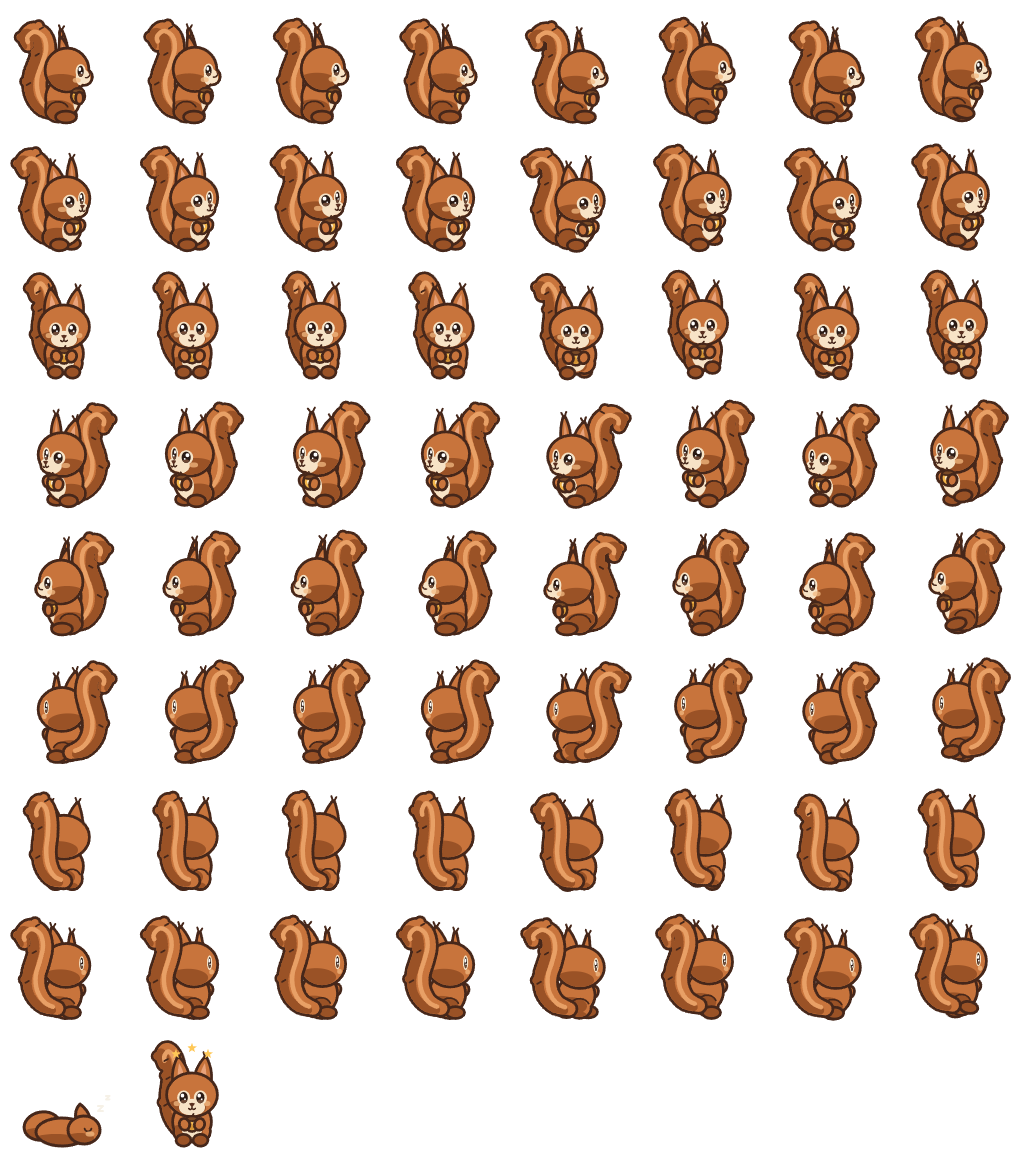
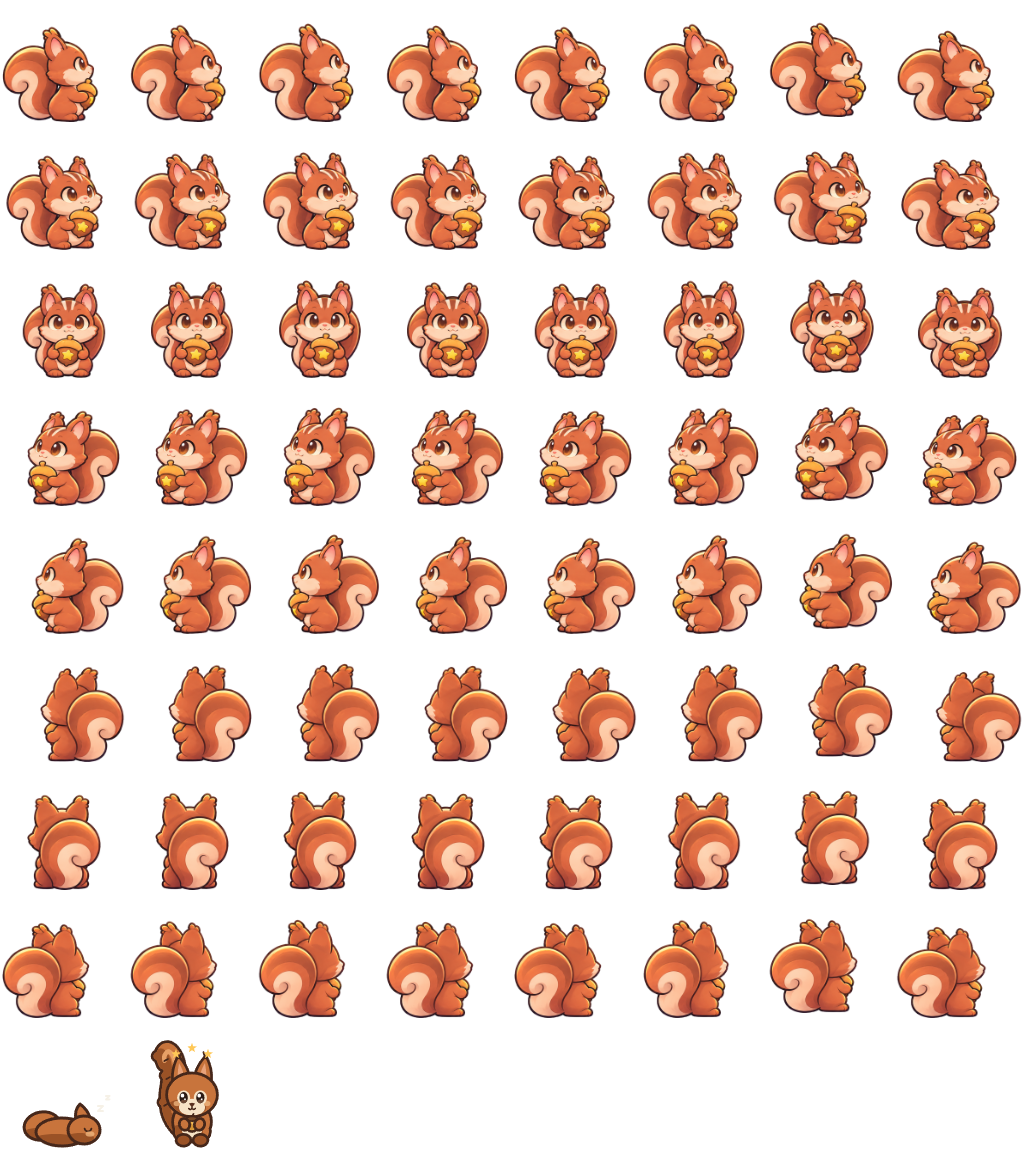
도토 대기 8방향 팩 적용: ChatGPT 팩(512·한 축척·발끝 496)을 reference/Doto_8_Direction_Pack에, 꼬리 포함 실루엣 가운데로 와서 방향별 몸 기준점(anchorX), 키 95px, 초상 = 대기 45°, 걷기는 임시 깡충(착지 칸 넓힘 2%로 — 꼬리 잘림 방지)
Claude-Session: https://claude.ai/code/session_01HrPbr5mJU6i3pPUacduwos

diff --git a/src/art/friendSheet.ts b/src/art/friendSheet.ts
@@ -31,6 +31,11 @@ interface FriendPack {
    * 게임은 여기에 걸음 빠르기 배율(Lightkeeper: 끝까지 밀면 약 ×1.65)을 곱한다
    */
   walkCycle?: { order: number[]; frameRate: number };
+  /**
+   * 방향(각도)별 몸 기준점 x(팩 캔버스 px). 없으면 발 가운데(아래 15% 줄 평균)를 잰다.
+   * 꼬리가 크고 바닥에 닿는 도토처럼, 자동으로 재면 꼬리에 끌려가는 팩에 쓴다
+   */
+  anchorX?: Partial<Record<number, number>>;
 }
 
 /** 각도 → 팩의 방향 이름 (파일 이름 규칙) */
@@ -46,6 +51,7 @@ const NAMES: Record<number, string> = {
 };
 
 const TORI_DIR = '/reference/Tori_8_Direction_Pack';
+const DOTO_DIR = '/reference/Doto_8_Direction_Pack';
 export const FRIEND_PACKS: Partial<Record<KeeperSpriteId, FriendPack>> = {
   tori: {
     idle: (deg, name) => `${TORI_DIR}/Tori_Idle_8D_Pack/tori_idle_${deg}_${name}.png`,
@@ -56,6 +62,21 @@ export const FRIEND_PACKS: Partial<Record<KeeperSpriteId, FriendPack>> = {
     // 2026-11-18 라이언: 오른쪽 깡충이 빠르고 과해 보임 → 앉음 2칸·박차기 1·공중 1·착지 2칸, 끝까지 밀어도 한 번에 약 0.66초(제안).
     // 루미 방식(4칸 9fps)이면 끝까지 밀 때 1초에 약 15칸 = 깡충 한 번 0.27초였다. 땅에 있는 시간을 늘리고 공중은 짧게
     walkCycle: { order: [0, 0, 1, 2, 3, 3], frameRate: 5.5 },
+  },
+  // 2026-11-18: ChatGPT 도토 대기 팩(8장 한 축척, 발끝 496, 귀 끝 털 약 54줄 = 몸 높이 약 442).
+  // 팩은 '꼬리까지 포함한 실루엣'을 가로 가운데에 맞춰 와서(README), 몸 기준점을 방향마다 정했다(그림 위에 선을 그어 확인,
+  // 좌우 짝 45/315·90/270·135/225는 512 대칭). 그림 파일은 받은 그대로 — 옮기면 큰 꼬리가 캔버스 밖으로 잘린다.
+  // 크기 95px(제안): 브리프 '몸은 셋 중 가장 작다'(루미 약 101px, 머리 폭 루미의 약 83%). 더 크면 128 칸에서 꼬리 끝이 잘린다.
+  // 걷기 팩이 오기 전까지 걷기는 대기 그림으로 만든 임시 깡충, 박자는 토리와 같다
+  doto: {
+    idle: (deg, name) => `${DOTO_DIR}/Doto_Idle_8D_Pack/doto_idle_${deg}_${name}.png`,
+    walk: (deg, name, n) => `${DOTO_DIR}/Doto_Walk_8D_4Frames_Pack/${deg}_${name}/doto_walk_${deg}_${name}_f0${n}.png`,
+    feetY: 496,
+    bodyH: 442,
+    heightPx: 95,
+    walkCycle: { order: [0, 0, 1, 2, 3, 3], frameRate: 5.5 },
+    // 90·135(270·225)는 몸 아래보다 10px 몸 쪽: 꼬리 끝이 128 칸 밖으로 나가지 않게(게임에서 2px)
+    anchorX: { 0: 256, 45: 300, 90: 320, 135: 340, 180: 256, 225: 172, 270: 192, 315: 212 },
   },
 };
 
@@ -69,7 +90,7 @@ interface Pose {
 /** 숨쉬기 4칸 (루미 breathe와 같은 값) */
 const BREATHE: Pose[] = [{}, { sx: 0.995, sy: 1.02 }, { sx: 0.99, sy: 1.035 }, { sx: 0.995, sy: 1.015 }];
 /** 걷기 팩이 아직 없는 방향의 임시 깡충 (제안): 모음 → 박차기 → 공중 → 착지. 귀 끝이 칸(위 7px 여유) 밖으로 나가지 않는 만큼만 늘이고 든다 */
-const HOP: Pose[] = [{}, { sx: 0.98, sy: 1.03 }, { sx: 1.01, sy: 0.99, lift: 5 }, { sx: 1.04, sy: 0.95 }];
+const HOP: Pose[] = [{}, { sx: 0.98, sy: 1.03 }, { sx: 1.01, sy: 0.99, lift: 5 }, { sx: 1.02, sy: 0.96 }];
 
 function loadImage(url: string): Promise<HTMLImageElement | null> {
   return new Promise((resolve) => {
@@ -132,6 +153,7 @@ export async function composeFriend(id: KeeperSpriteId): Promise<HTMLCanvasEleme
   if (!pack) return null;
   const s = pack.heightPx / pack.bodyH;
   const idle = new Map<Dir, HTMLImageElement>();
+  const anchor = new Map<Dir, number>();
   const walk = new Map<Dir, HTMLImageElement[]>();
   for (const [deg, name] of Object.entries(NAMES)) {
     const a = deg.padStart(3, '0');
@@ -139,6 +161,7 @@ export async function composeFriend(id: KeeperSpriteId): Promise<HTMLCanvasEleme
     const img = await loadImage(pack.idle(a, name));
     if (!img) return null;
     idle.set(dir, img);
+    anchor.set(dir, pack.anchorX?.[Number(deg)] ?? feetX(img));
     const frames = await Promise.all([1, 2, 3, 4].map((n) => loadImage(pack.walk(a, name, n))));
     if (frames.every((f): f is HTMLImageElement => f !== null)) walk.set(dir, frames as HTMLImageElement[]);
   }
@@ -155,8 +178,8 @@ export async function composeFriend(id: KeeperSpriteId): Promise<HTMLCanvasEleme
 
   for (const [row, d] of DIRS.entries()) {
     const img = idle.get(d) as HTMLImageElement;
-    // 한 방향 안의 대기·걷기는 같은 발 가운데(대기 그림 기준)에 둔다 → 걷기 프레임의 앞뒤 움직임이 그대로 보인다
-    const fx = feetX(img);
+    // 한 방향 안의 대기·걷기는 같은 기준점(대기 그림의 발 가운데 또는 anchorX)에 둔다 → 걷기 프레임의 앞뒤 움직임이 그대로 보인다
+    const fx = anchor.get(d) as number;
     for (let i = 0; i < LUMI_COLS.idle; i++) place(g, img, i, row, fx, pack, s, BREATHE[i % BREATHE.length]);
     const frames = walk.get(d);
     for (let i = 0; i < LUMI_COLS.walk; i++) {

diff --git a/CLAUDE.md b/CLAUDE.md
@@ -155,7 +155,7 @@ UI는 한국어, 코드 식별자는 영어 id.
     - **외형 변경 금지**: Claude는 캐릭터 외형을 임의로 재해석하거나 정해진 그림을 바꾸지 않는다. 바꿀 때는 라이언의 승인을 받는다.
     - **Claude의 몫**: 필요한 규격과 주문서(`hand-offs/chatgpt-*`), 가져오기 도구를 만든다.
     - **교체**: ChatGPT 그림이 오면 같은 키로 바꾼다.
-  - 지금 임시 그림: 중앙 광원 토템 `central-source`(밝음·약함·꺼짐), 개구리 `frog-dark`·`frog-true`, 등불 스테이션 = `lantern` 시트를 바닥에(1.5배, 2026-11-13), 도토(붉은 갈색 다람쥐·복슬한 꼬리·황금 도토리)의 초상·8방향 시트, 토리·도토의 빛을 잃은 모습(`src/art/friends.ts`·`keeperSprites.ts`). **토리는 2026-11-18부터 ChatGPT 그림**: 정지 8방향·초상(대기 45°) = 대기 팩, 걷기 = 받은 방향의 걷기 팩(지금 90° 오른쪽만 — 나머지 방향은 대기 그림을 늘이고 드는 임시 깡충), 잠듦·기절 = 아직 임시 코드 그림(`src/art/friendSheet.ts`, 팩 파일이 늘면 `npm run assets`만 다시).
+  - 지금 임시 그림: 중앙 광원 토템 `central-source`(밝음·약함·꺼짐), 개구리 `frog-dark`·`frog-true`, 등불 스테이션 = `lantern` 시트를 바닥에(1.5배, 2026-11-13), 토리·도토의 빛을 잃은 모습(`src/art/friends.ts`·`keeperSprites.ts`). **도토도 2026-11-18부터 ChatGPT 그림**: 정지 8방향·초상(대기 45°) = 대기 팩(`reference/Doto_8_Direction_Pack/Doto_Idle_8D_Pack/`, 몸 기준점 표 `anchorX`·키 95px — 점검 기록 `README_claude.md`), 걷기 = 임시 깡충. **토리는 2026-11-18부터 ChatGPT 그림**: 정지 8방향·초상(대기 45°) = 대기 팩, 걷기 = 받은 방향의 걷기 팩(지금 90° 오른쪽만 — 나머지 방향은 대기 그림을 늘이고 드는 임시 깡충), 잠듦·기절 = 아직 임시 코드 그림(`src/art/friendSheet.ts`, 팩 파일이 늘면 `npm run assets`만 다시).
   - **움직임 그림 (2026-11-13 라이언: 모든 생명이 어색하지 않게, 루미 참고)**: 토리·도토 = 루미와 같은 8방향(앞·앞 3/4·옆·뒤 3/4·뒤, 왼쪽은 뒤집기) × 정지 4칸·걷기 4칸(`keeperSprites.ts`). 걷는 적·주민(늑대·고슴도치·레서판다·올빼미·개구리) = 옆·앞·뒤 × 4칸 걸음(칸 = 방향×4+걸음, 이동 방향으로 고름 `systems/critterView.ts`), 나는 종(박쥐·뱀파이어·나방·반딧불이) = 4칸 날갯짓, 노월 = 대기 4칸·시전 2칸(구슬·소환 때)·진정 1칸(`creatures.ts`·`enemies.ts`·`critterKit.ts`). 판이 끝나면 등불지기는 정면 정지, 일시정지 중엔 애니메이션도 멈춤.
   - 조준 = 밝은 노랑 50% 원뿔(선 없음, 반지름만 끈 거리에 비례), 발사 = 별이 원뿔 안으로.
 - 콘셉트 "어두운 밤, 따뜻한 빛". 알약형 버튼(주요 호박 채움 + 아이콘 / 보조는 어두운 바탕에 밝은 테두리, 최소 48×48), 폰트 Pretendard → Noto Sans KR.
@@ -337,6 +337,7 @@ UI는 한국어, 코드 식별자는 영어 id.
   - 첫 적용 — 받은 토리 대기 8장 점검(`sketches/tori-idle-check-26-1117-2306/`): 크기·발끝·가운데·투명은 맞음. `tori_idle_135_back_right.png` 한 장만 리본·접힌 귀가 반대쪽 귀(225°를 뒤집은 모습).
   - 원인은 브리프 — '왼쪽 3방향은 뒤집기' 규칙과 기준이 섞인 좌우 표현. 브리프·기준 사실서를 고침: 접힌 귀와 리본 = 토리 자신의 왼쪽 귀, 토리는 뒤집지 않음, 걷기 팩은 대기 팩과 같은 캔버스·축척·발끝. 135° 고치기 영문 프롬프트를 더함.
   - 크기: 토리가 캔버스 안에서 루미보다 작게 그려짐(같은 칸이면 머리 폭 82%) → 다시 그리지 않고 게임에서 토리를 ×1.22로 보이게(제안, 친구 가져오기 도구를 만들 때 적용).
+- 2026-11-18 · 받은 도토 대기 8방향 팩(`Doto_Idle_8D_Pack.zip`)을 확인·적용(라이언: 경로에 맞게 배치, 필요하면 이름 통일 — 이름은 이미 규칙대로). 점검: 512·한 축척·발끝 496·컨셉과 같은 모습·좌우 따로 그림. 가로는 꼬리 포함 실루엣 가운데로 와서 방향마다 몸 기준점(`FRIEND_PACKS.doto.anchorX`)을 정함(그림은 그대로 — 옮기면 꼬리가 잘림). 키 95px(셋 중 가장 작게, 제안), 임시 깡충 착지 칸 넓힘 4 → 2%(꼬리 끝이 칸 밖으로 나가지 않게). 트라이얼에서 8방향 확인.
 - 2026-11-18 · 홈 화면을 처음부터 다시 기획(라이언: 홈 그림의 캐릭터·등불 위치와 버튼 위치가 엇갈리고 리본이 여전히 뒤쪽 귀 → 여기서 기획하고 ChatGPT 지시서를 다시, 캐릭터 유무는 Claude 판단, 버튼은 여기서 만듦, 화면 4종 = PC 풀·PC 세로·모바일 세로 풀·모바일 가로 풀). 판단: 배경엔 캐릭터 없이 등불 빈터만, 무대에 고른 등불지기를 게임이 세움(브롤스타즈식), 제목은 투명 PNG로 따로 → `docs/design/HOME_SCREEN.md` + 의뢰 묶음 station `chatgpt-home-bg-26-1118-1440`(앞선 `chatgpt-home-art-26-1118-1417`은 대체·station에서 지움). 그림이 오면 홈을 새로 만든다(5절).
 - 2026-11-18 · 받은 토리 90° 걷기 3번째 판(`tori_walk_090_right_revised.zip`)을 적용(라이언 확인용). 점검: 뜨는 높이 10 → 8px만 나아짐, 눈(밝은 파랑·둥긂)과 머리 출렁임(눈 높이 −45~+14px, 귀 끝 +61px)은 재의뢰 목표에서 거의 그대로 — `090_right/README.txt`.
 - 2026-11-18 · 토리 오른쪽 걷기 확인(라이언): 사이클이 빠르고 점프가 약간 과하고 눈 색이 맞지 않음 → 게임 쪽은 깡충 박자를 차분하게(앉음·착지 두 박, 한 번 약 0.68초 — 4절), 그림 쪽은 ChatGPT 재의뢰 묶음을 station에(`chatgpt-tori-walk-fix-26-1118-1423`). 잰 값: 눈 높이가 네 장 사이 57px·귀 끝 60px 오르내림(점프보다 머리 출렁임이 큼), 눈 = 대기 #4E4698 세로 타원 ↔ f02~f04 #4857CB 작고 둥긂.

diff --git a/docs/skill/light-defense-game/references/visual-audio.md b/docs/skill/light-defense-game/references/visual-audio.md
@@ -3,7 +3,7 @@
 > **2026-11-12 새 기획 개정 요약 (아래 본문보다 우선)**
 > - 루미는 **등불을 들지 않는다**(스스로 빛을 쏨). 빛 고임은 루미 주변(LP 비례)·중앙 광원(광도 비례)·켜진 등불 세 가지이고, 맵 전체 광도(`systems/villageMood.ts MapLight`)가 켜진 마을 드러남과 어둠 덮개를 정한다(옛 '마을 분위기' 절을 대체).
 > - **HUD**: 위 한 줄은 그대로(달·밤 mm:ss·진행 바에 한밤중·클라이맥스 눈금·점수·콤보). 아래 = 하트 3개 + HP 막대 · 빛(LP) 막대 · 중앙 광원 광도 막대 · 켠 등불 수 · 일시정지. 불꽃 5개·시너지 게이지·장착물 칸은 없앴다. 꺼진 등불·위험한 광원·빛을 잃은 친구는 노란 화살표(화면 밖이면 가장자리, 화면 안이면 그 위, 2026-11-13). HP·LP 막대 앞에 'HP'·'LP' 글자(LP는 별 아이콘 자리, 2026-11-13). 판이 끝나면(아침·튜토리얼 끝) 등불지기는 정면 정지 자세, 일시정지 중엔 애니메이션도 멈춤.
-> - 새 임시 코드 그림: 중앙 광원 토템 `central-source`(밝음·약함·꺼짐), 개구리 `frog-dark`·`frog-true`, 등불 스테이션 = `lantern` 시트를 바닥에(+ 광도 게이지). 도토 초상은 다람쥐(붉은 갈색, 복슬한 꼬리). **토리는 2026-11-18부터 ChatGPT 그림**(정지 8방향·초상·받은 방향의 걷기 — `src/art/friendSheet.ts`, 팩은 `reference/Tori_8_Direction_Pack/`, 아직 없는 걷기 방향은 대기 그림으로 만든 임시 깡충, 게임 속 키 귀 끝~발끝 115px = 머리 폭이 루미와 같음).
+> - 새 임시 코드 그림: 중앙 광원 토템 `central-source`(밝음·약함·꺼짐), 개구리 `frog-dark`·`frog-true`, 등불 스테이션 = `lantern` 시트를 바닥에(+ 광도 게이지). 도토 초상은 다람쥐(붉은 갈색, 복슬한 꼬리). **도토도 2026-11-18부터 ChatGPT 대기 팩**(몸 기준점 표 anchorX, 키 95px, 걷기는 임시 깡충). **토리는 2026-11-18부터 ChatGPT 그림**(정지 8방향·초상·받은 방향의 걷기 — `src/art/friendSheet.ts`, 팩은 `reference/Tori_8_Direction_Pack/`, 아직 없는 걷기 방향은 대기 그림으로 만든 임시 깡충, 게임 속 키 귀 끝~발끝 115px = 머리 폭이 루미와 같음).
 > - 적의 퇴장: 잃어버린 주민 = 제 모습(fx-return)으로 광원 쪽 귀환, 호스틸 = 빛 반대쪽으로 날아가 사라짐. 패시브는 위협적이지 않게, 빛을 피하는 몸짓.
 > - 사운드(새 기획): BGM 홈·플레잉·상점·튜토리얼, 효과음 조준(끌기)·발사·아이템·클리어·게임 오버·적 다운, 진동. 레퍼런스에 Stray·OneShot(분위기·색감), Cult of the Lamb(2.5D·지면 재질) 추가. 새 기획은 색 미정 → 기존 10색 팔레트 유지.
 > - 2026-11-13 보강: 모든 생명이 루미처럼 움직임 — 토리·도토 8방향 × 정지·걷기 4칸, 걷는 적·주민 옆·앞·뒤 × 걸음 4칸(`systems/critterView.ts`로 방향 고름), 나는 종 날갯짓 4칸, 노월 대기·시전·진정. 중앙 광원 = 세 단 돌 제단 + 금 간 큰 결정(176×236). 배경음 = D장조의 은은한 곡(OneShot 분위기 참고, 오르골 선율은 새로 지음, Dmaj9 → A/C# → Bm7 → F#m7 → Gmaj7 → D/F# → Em7 → A7). 장애물(오두막·담·기둥·광원 등) 뒤에 등불지기가 있으면 그 물체가 반투명(`entities/Occluders.ts`). HUD 막대 이름은 HP·LP만(광원 막대는 결정 아이콘 그대로 — 라이언 2026-11-13), 노란 화살표.

diff --git a/reference/Doto_8_Direction_Pack/Doto_Idle_8D_Pack/README_claude.md b/reference/Doto_8_Direction_Pack/Doto_Idle_8D_Pack/README_claude.md
@@ -1,0 +1,24 @@
+# 도토 대기 팩 — Claude 점검·적용 기록 (2026-11-18)
+
+받은 것: `Doto_Idle_8D_Pack.zip`(ChatGPT). 같은 폴더의 `README.md`·`manifest.json`·`sheet/`는 받은 그대로다.
+
+## 점검
+
+- **규격**: 8장 모두 512×512 투명 PNG. 발끝은 495~496줄, 한 축척(귀 끝 털 약 54줄, 높이 438~447). 캔버스 가장자리에 잘린 곳은 없다.
+- **모습**: 컨셉 그림(`../Doto_Concept_Introduce/doto_concept.png`)과 같다. 붉은 갈색 털, 귀 끝 털, 이마 줄무늬, 별 박힌 황금 도토리, S자 꼬리. 왼쪽 방향도 따로 그렸다(뒤집기 없음).
+- **가로 위치**: 의뢰는 '몸 가운데'였는데, 꼬리까지 포함한 실루엣 가운데로 맞춰 왔다(README에도 확인 요청이 있다). 그래서 방향마다 몸이 좌우로 옮겨 가 있다.
+
+## 게임에 넣은 방법 (`src/art/friendSheet.ts` `FRIEND_PACKS.doto`)
+
+- 그림은 받은 그대로 둔다. 옮겨 저장하면 큰 꼬리가 캔버스 밖으로 잘린다.
+- 대신 방향마다 **몸 기준점 x**(팩 px)를 정했다. 그림 위에 선을 그어 확인했고, 좌우 짝은 512 대칭이다.
+
+  | 0° | 45° | 90° | 135° | 180° | 225° | 270° | 315° |
+  |---|---|---|---|---|---|---|---|
+  | 256 | 300 | 320 | 340 | 256 | 172 | 192 | 212 |
+
+  90°·135°(270°·225°)는 몸 아래보다 10px 몸 쪽이다. 꼬리 끝이 128 칸 밖으로 나가지 않게 했다(게임에서 2px 차이).
+- **크기**: 귀 끝 털~발끝 95px(제안). 루미는 약 101px다. 브리프 '몸은 셋 중 가장 작다'를 따랐다. 더 크면 128 칸에서 꼬리 끝이 잘린다.
+- **초상**: 대기 45°(`art-src/characters/portrait-doto.png`).
+- **걷기**: 걷기 팩이 오기 전까지 대기 그림으로 만든 임시 깡충이다. 박자는 토리와 같다(앉음 2칸·박차기 1·공중 1·착지 2칸).
+- 빛을 잃은 모습·잠듦·기절은 아직 임시 코드 그림이다.

diff --git a/reference/Doto_8_Direction_Pack/Doto_Idle_8D_Pack/README.md b/reference/Doto_8_Direction_Pack/Doto_Idle_8D_Pack/README.md
@@ -1,0 +1,22 @@
+# Doto Idle 8-Direction Pack
+
+Eight 512×512 transparent PNG idle sprites for Doto, plus the original turnaround sheet.
+
+## Directions
+- 000° front
+- 045° front-right
+- 090° right
+- 135° back-right
+- 180° back
+- 225° back-left
+- 270° left
+- 315° front-left
+
+## Alignment
+A single shared scale was applied to all eight cutouts. The bottom of each sprite is aligned to y=496.
+Horizontal placement is centered on the full silhouette, including the tail. All eight views were drawn separately on the turnaround sheet; no mirroring was applied. Please have Claude Code check body-center alignment before importing.
+
+## Contents
+- Eight `doto_idle_*.png` sprites
+- `sheet/doto_idle_sheet.png` original 8-view sheet
+- `manifest.json`
